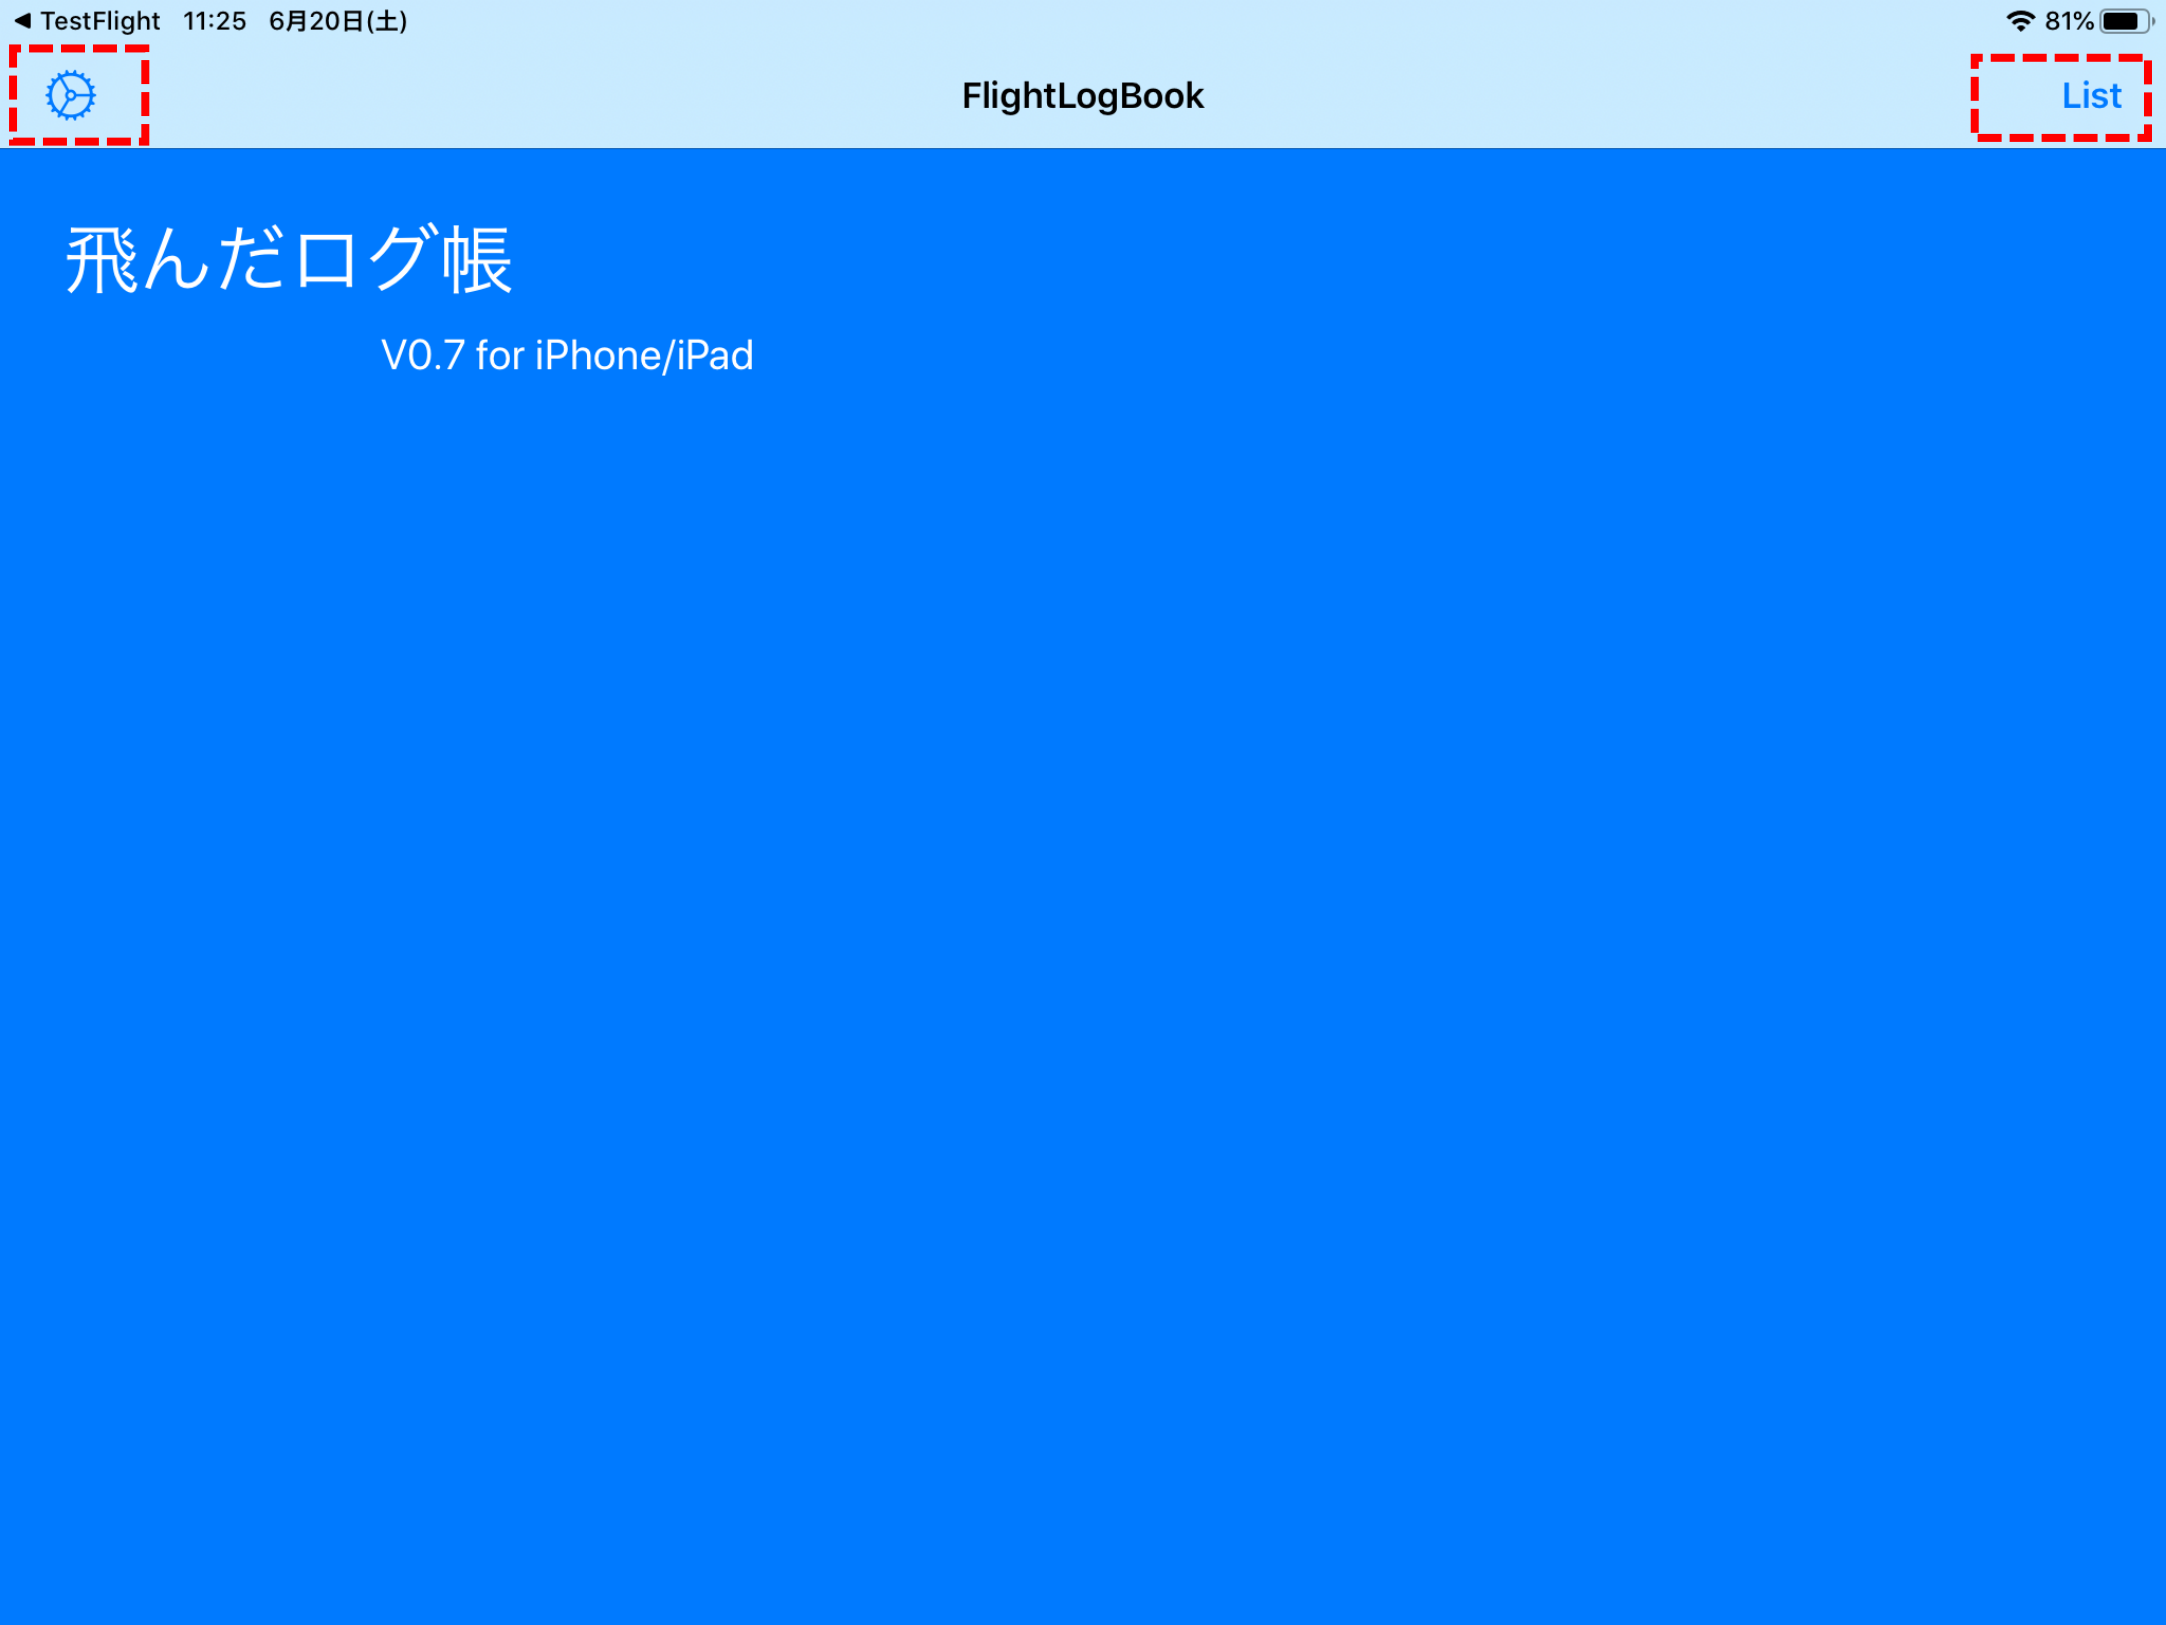
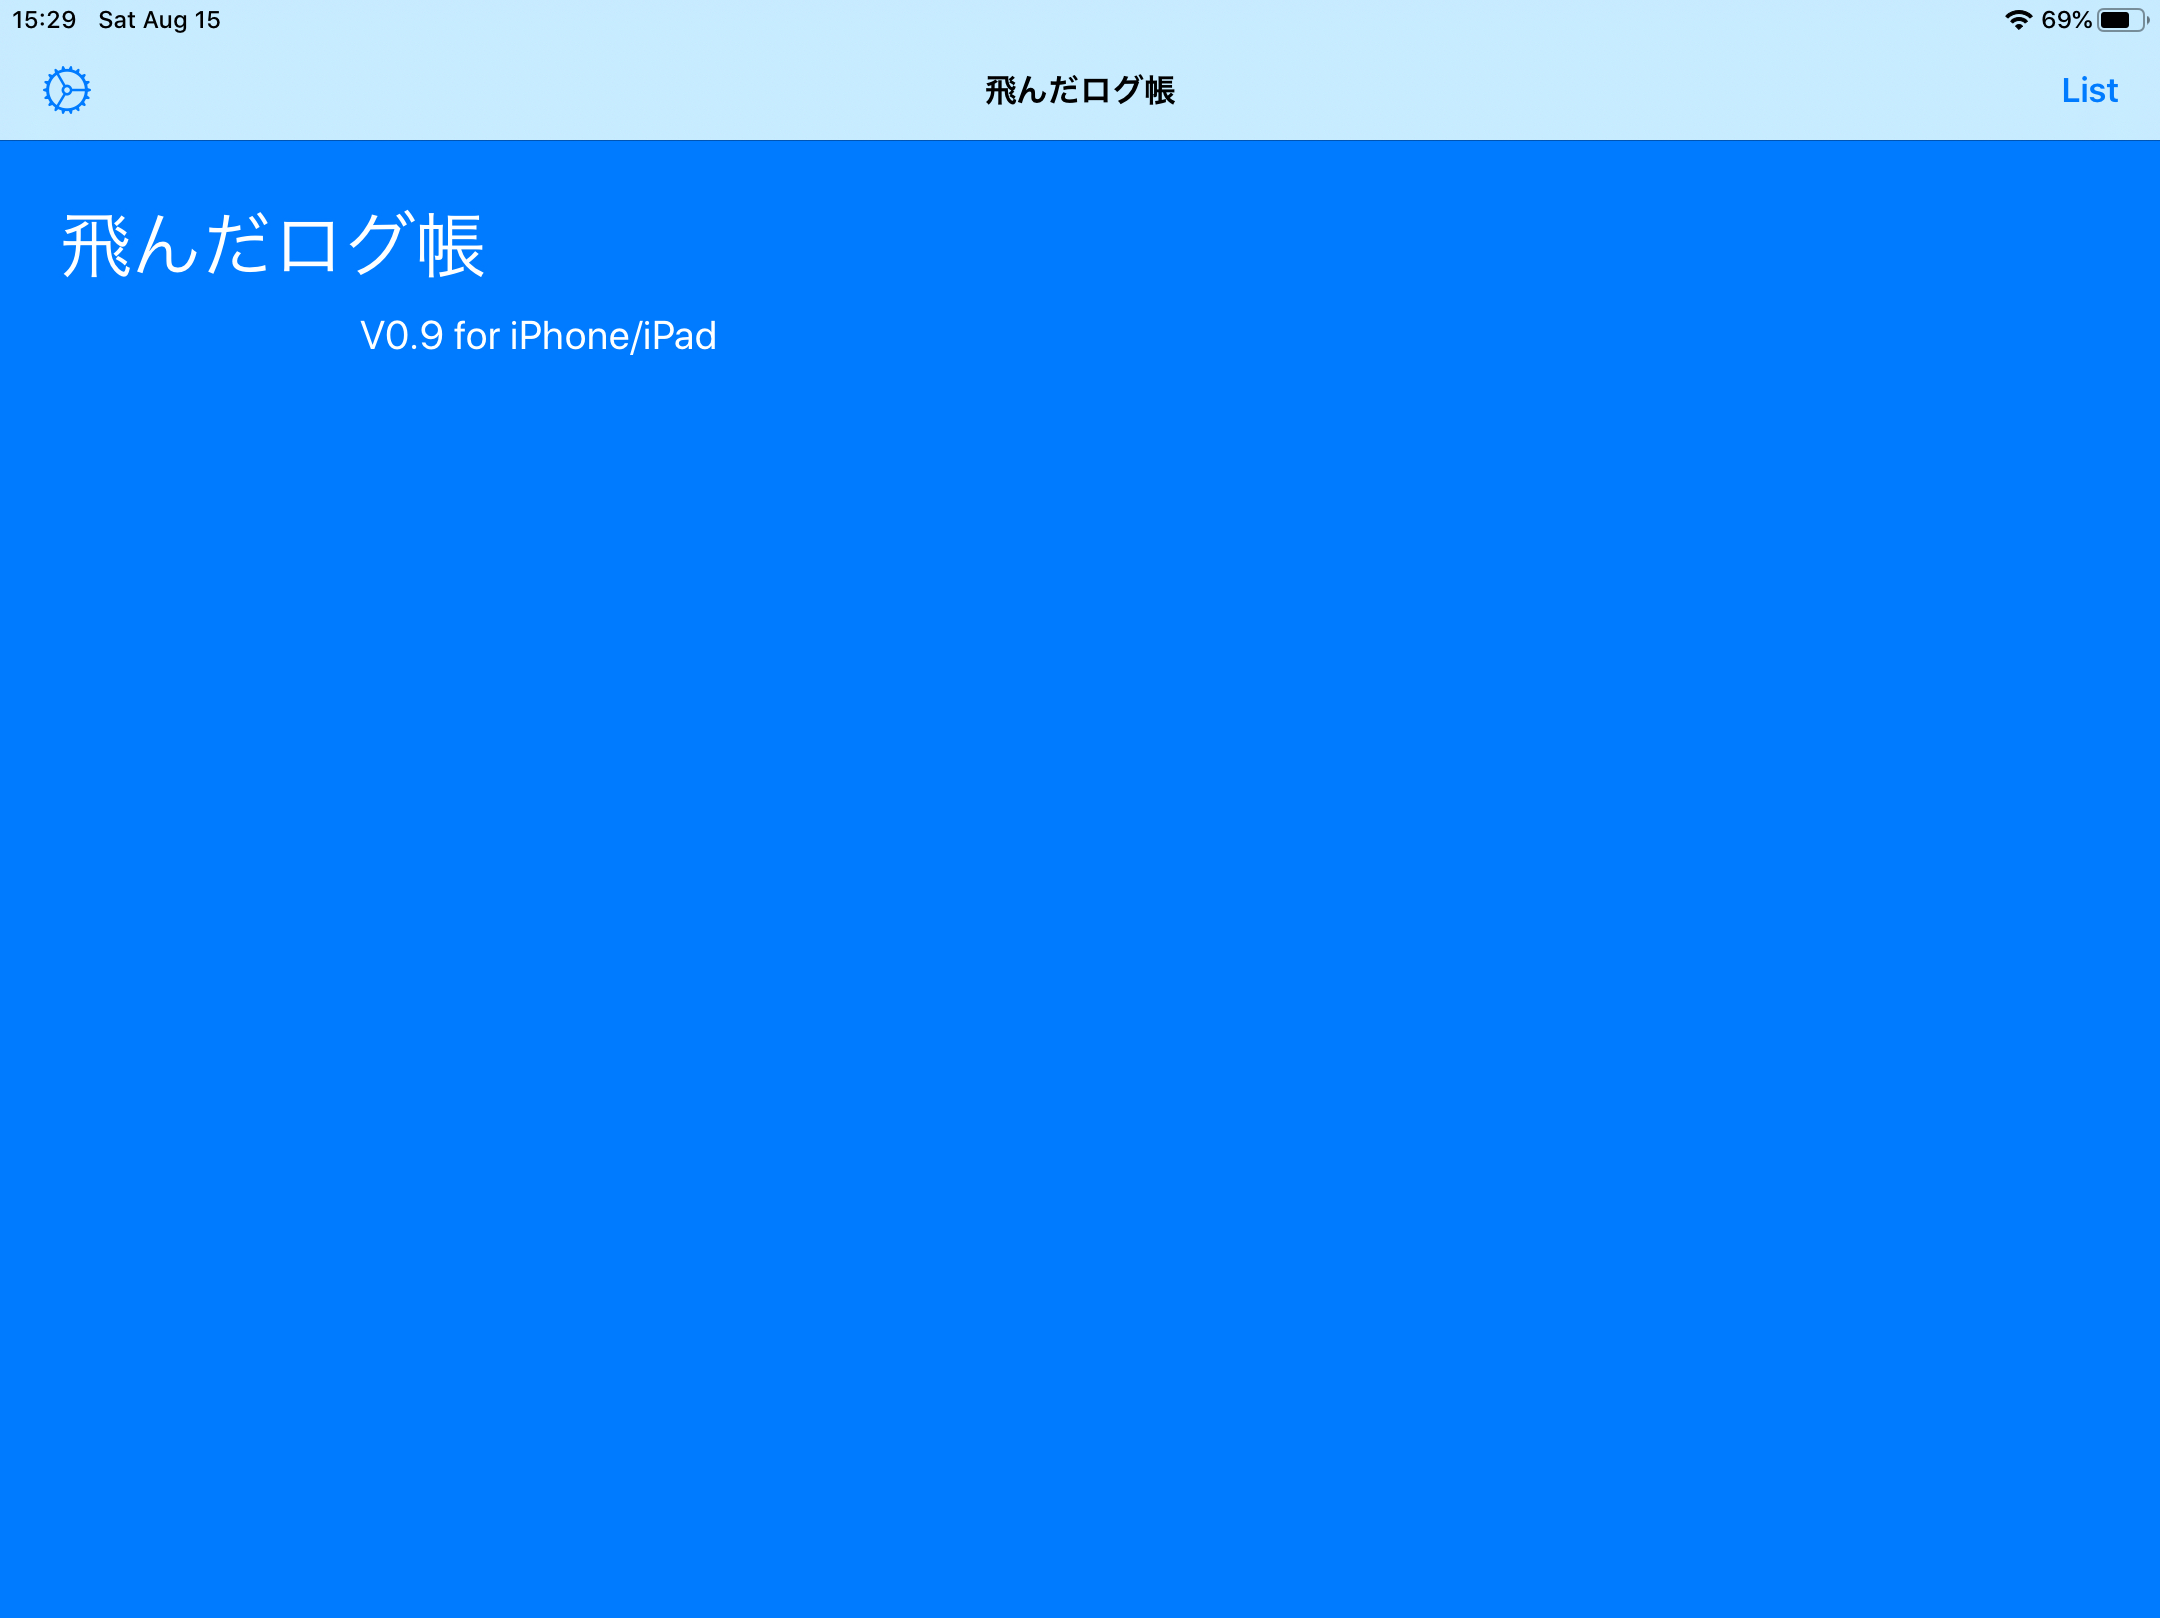
v09

Changed region(s): [[0.0, 0.0, 1.0, 0.0927], [0.031, 0.1236, 0.3412, 0.2472]]

diff --git a/appDoc/index.html b/appDoc/index.html
@@ -22,7 +22,7 @@ body {
 <li>v0.9 記載できる項目追加。修正画面追加。</li>
 <li>v0.8.2 搭乗券のスキャン強化（対応航空会社追加、写真からのスキャン）</li>
 <li><a title="/WebSiteK/appDoc/v081/v081top.html" href="/WebSiteK/appDoc/v081/v081top.html">v0.8.1 </a>地図に表示する空港の座標で間違い訂正。海外の空港追加。</li>
-<li>v0.8.0 初版</li>
+<li>v0.8 初版</li>
 </ul>
 <ul style="text-align: left;">改善予定)
 <li>登録件数増加を予定しています。</li>
@@ -36,32 +36,48 @@ body {
 <blockquote>
 <p>説明画像) 説明資料は一部、開発中のものを含みます。iPad版での画像を使います。iPhone版 は少しイメージが違うかもしれませんが、基本的には  iPhone に合うように画面設計しています。iPad だと余白が多くなります。</p>
 <p style="font-size: 1.5em;">１） アプリのアイコンクリックで起動します。起動画面はシンプルです。</p>
-<p><br /> <img src="./IMG0201.png" alt="0201" width="512" height="384" />
+<img src="./IMG0201.png" alt="0201" width="512" height="384" /><br>
 <p style="font-size: 1.5em;">２）トップ画面からは、設定画面/一覧表示画面に遷移できます。次は、「設定ボタン」を押して設定画面に飛ばします。</p>
- <br /> <img src="./IMG0202.png" alt="0202" width="512" height="384" /></p>
-<p style="font-size: 1.5em;">３）設定画面では、アプリの概要説明が記述されています。また、トップ画面用の、初めの一言 / 画像　を設定することができます。これでトップ画面の殺風景感から開放されますね。次は、「FlighLogBookボタン」を押してトップ画面に戻ります。</p>
-<p><br /> <img src="./IMG0203.png" alt="0203" width="512" height="384"/></p>
+<img src="./IMG0202.png" alt="0202" width="512" height="384" /><br>
+設定画面は、アプリの概要説明や各種設定項目があります。FFPステイタスセルを押します。<br>
+<img src="./IMG02021.png" alt="02021" width="512" height="384" /><br>
+ANA,JALのマイレッジプログラム（FFP）のステイタスを設定できます。この値はフライトログ登録時のデフォルトとして使用します。次は、設定画面から、記録する情報グループの選択セルを押します。<br>
+<img src="./IMG02022.png" alt="02022" width="512" height="384" /><br>
+表示／修正画面で表示される情報グループの　表示／非表示 を切り替えることができます。使用しない情報グループを表示しないと画面がすっきりします。<span style="color: #ff0000;">アプリ内には全ての項目を保持しているため、一度入力した値は非表示でも保持されます。表示／非表示設定は、いつでも切り替えて使うことができます。</span>次は、設定画面から、追加空港コードと位置セルを押します。<br>
+<img src="./IMG02023.png" alt="02023" width="512" height="384" /><br>
+未登録の空港コードを３つまで追加できます。世界地図に簡易航空路をプロットできないときに追加するといいでしょう。また、空港コード／空港名称の自動変換でも使われます。アプリ内で登録済みの空港コードは、「設定／サポート／３レター空港コードについて」に記載されています。<br><br>
+また、設定画面にはトップ画面用の、初めの一言 / 画像　を設定することもできます。これでトップ画面の殺風景感から開放されますね。
+<p style="font-size: 1.5em;">３）戻るボタンを押してトップ画面に戻ります。</p>
+<img src="./IMG0203.png" alt="0203" width="512" height="384"/>
 <p style="font-size: 1.5em;">４）トップ画面に、設定画面で設定した　初めの一言 / 画像が表示されます。次は「Listボタン」を押して一覧画面に飛ばします。</p>
-<p><br /> <img src="./IMG0204.png" alt="0204" width="512" height="384" />
+<img src="./IMG0204.png" alt="0204" width="512" height="384" />
 <p style="font-size: 1.5em;">５）登録されているログの件数が0件の一覧画面が表示されます。この画面からはログ登録画面/地図表示画面に遷移できます。次は「＋ボタン」を押し登録画面に飛ばします。登録可能件数は現時点では20件です。すでに20件登録されている場合はエラーとなり、次の画面を表示することはできません。</p>
-
-<br /> <img src="./IMG0205.png" alt="0205" width="512" height="384" /></p>
-<p style="font-size: 1.5em;">６）登録画面では、フライトログ情報を入力します。この画面からはスキャン画面に遷移できます。
+<img src="./IMG02050.png" alt="02050" width="512" height="384" /><br>
+登録画面では、主要な項目のみを入力します。日付と便名は必須入力です。ここで入力した項目を含め、必須以外の項目は、修正画面で修正することができます<br>
+<img src="./IMG02054.png" alt="02054" width="512" height="384" /><br>
+搭乗券に記載されている二次元コード（QRコード等）には、全てではありませんが、フライトに関する情報が含まれていますので、それを取り込むことができます。方法は、搭乗券をカメラで読み取る、または搭乗券を写真に撮りフォトライブラリーから読み取る方法です。<br>
+<p style="font-size: 1.5em;">６）登録画面では、フライトログ情報を入力します。この画面からはスキャン画面やフォトライブラリー選択画面に遷移できます。</p>
 <ul style="text-align: left;">
-<li>日付は必須入力項目です。</li>
-<li>写真も貼り付けることができます。</li>
+<li>日付/便名は必須入力項目です。後で修正することができません。</li>
+<li>３レター空港コードと空港名は、アプリ内に登録されている場合（３つまでユーザが登録できます）は相互補完します。空港コードを入力すると空港名は置き換わります。空港名を入力すると空港コードが空白の場合に限り置き換わります。</li>
 <li>３レター空港コードは空港の場所を地図にプロットするために使われます。</li>
-<li>手元に搭乗券がある場合、「カメラボタン」を押して搭乗券をスキャンして入力するとお手軽です。<span style="color: #ff0000;">二次元バーコードでは登録できません</span>のでご注意ください。</li>
-</ul>「＋ボタン」を押すと登録を完了します。次はカメラを起動したときに一度だけ現れる確認画面です。</p>
-<p><br /> <img src="./IMG0206.png" alt="0206" width="512" height="384" />
+<li>手元に搭乗券がある場合、「カメラボタン」を押して搭乗券をスキャンして入力するとお手軽です。また搭乗券を写真にとってスキャンすることもできます。ANAの iPhoneで提供されている Wallet のスクリーンショットでもできます。 <span style="color: #ff0000;">二次元バーコードでは登録できません</span>のでご注意ください。アプリの「設定／搭乗券スキャンについて」にも詳しい説明があります。</li>
+<li>搭乗券から読み取れる情報は、ANAの場合、日付/便名/出発空港コード/到着空港コード/座席クラス/座席番号　です。航空会社によっても変わってきます。</li>
+
+</ul>「登録（Save)ボタン」を押すと登録を完了します。次はカメラを起動したときに一度だけ現れる確認画面です。<br>
+<img src="./IMG0206.png" alt="0206" width="512" height="384" /><br>
 <p style="font-size: 1.5em;">７）登録が完了すると一覧画面に戻ります。今、登録したログが追加されています。一覧表示で、ログをスワイプして削除できます。</p>
+<img src="./IMG02070.png" alt="02070" width="512" height="384" /><br>
+<img src="./IMG02074.png" alt="02074" width="512" height="384" />
+<p style="font-size: 1.5em;">８）一覧画面でセルを押して表示／修正画面に飛ばします。</p>
+<img src="./IMG02080.png" alt="02080" width="512" height="384" /></p>
+表示画面で修正も可能です。設定した情報グループONの項目が表示され修正することができます。設定画面から、情報グループの表示／非表示を切り替えることができます。「更新（Save)ボタン」を押すと修正を完了します。<br>
+<img src="./IMG02084.png" alt="02084" width="512" height="384" /><br>
+写真を２つまで貼り付けることができます。貼り付けた写真の長押しで　削除、回転サブメニューがでます。貼り付けた写真を軽くタップすると、全画面で表示することがでます。<br>
+<p style="font-size: 1.5em;">９）次は、一覧画面から「地図ボタン」を押し地図画面に飛ばします。</p>
+<img src="./IMG0209.png" alt="0209" width="512" height="384"/><br>
+地図に簡易航空路がプロットされます。地図は拡大/縮小/移動などの操作が可能です。３レター空港コードは、日本を中心に一部の空港だけがアプリ内部に登録されていますので、簡易航空路が描画できないフライトもでてきます。これを補うため、ユーザが３つまで追加することができます。この画面のタイトルに　全ログ件数のうち、描画できた件数を表示しています。（例： ３件表示は、Mapping(描画３件／全３件) )<br>
 
-<br /> <img src="./IMG0207.png" alt="0207" width="512" height="384" />
-<br /> <img src="./IMG0089.png" alt="0089" width="512" height="384" />
-<p style="font-size: 1.5em;">８）次は「地図ボタン」を押し地図画面に飛ばします。</p>
-
-<br /> <img src="./IMG0208.png" alt="0208" width="512" height="384"/></p>
-<p style="font-size: 1.5em;">９）地図に簡易航空路がプロットされます。地図は拡大/縮小/移動などの操作が可能です。３レター空港コードは、日本を中心に一部の空港だけがアプリ内部に登録されていますので、簡易航空路が描画できないフライトもでてきます。この画面のタイトルに　全ログ件数のうち、描画できた件数を表示しています。（例： 一件表示は、Mapping(1/1) )</p>
 <p style="font-size: 1.5em;">以上でアプリの説明を終わります。</p>
 <p style="text-align: right;">作者：加納延康</p>
 </body>
